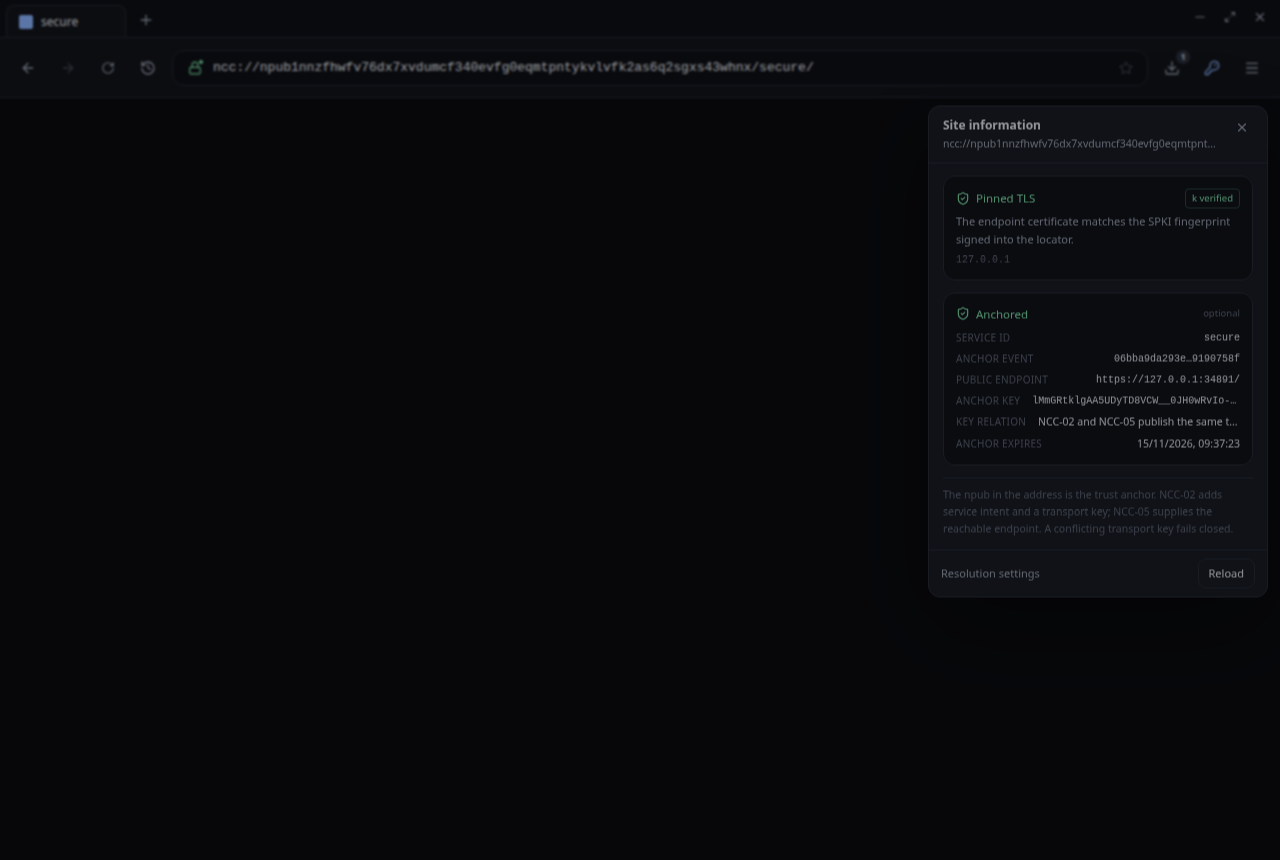
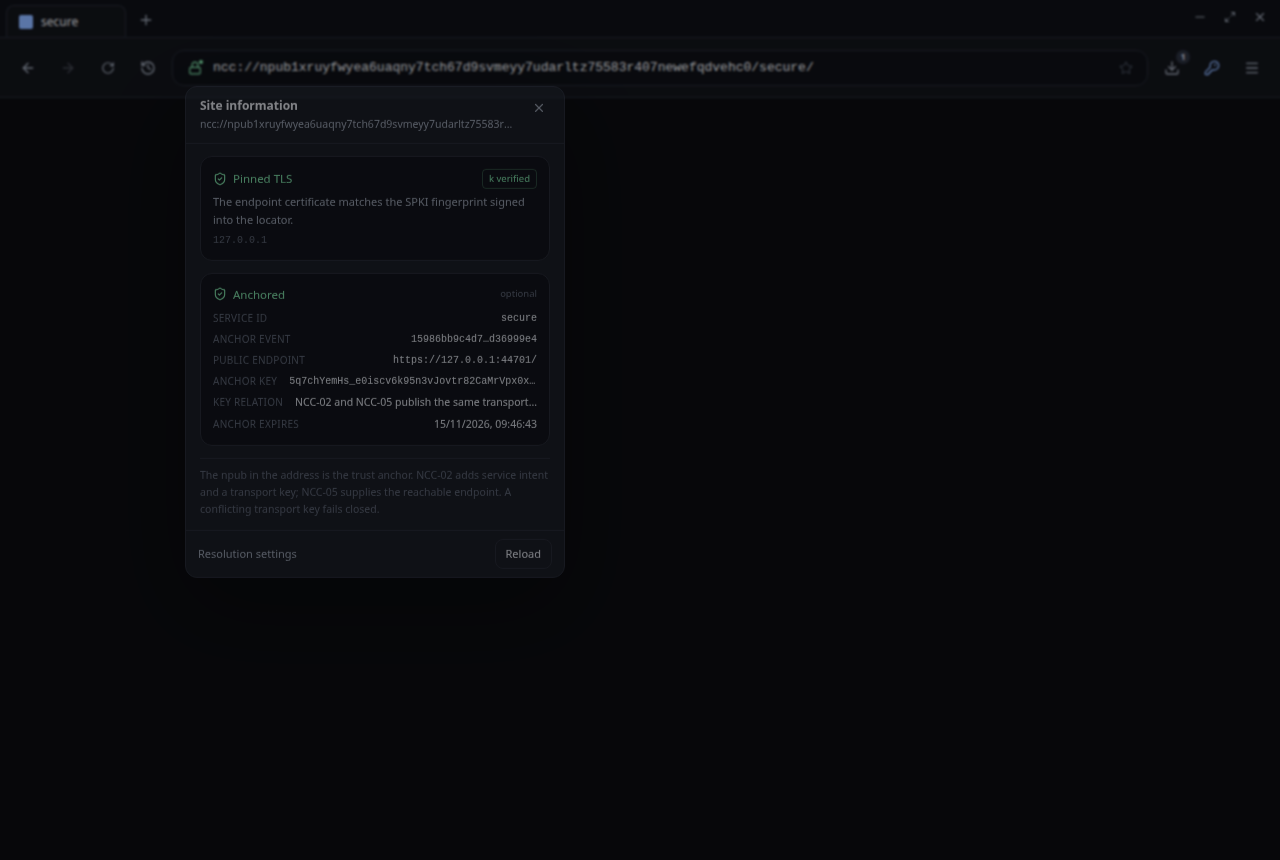
Anchor the Site information panel to the address-bar padlock
- measure the padlock on click and open the popover directly underneath it
- clamp the panel to the viewport on narrow windows
- add an e2e assertion for the panel position
- refresh screenshots

Tests: 229 unit, 104 e2e.

diff --git a/src/renderer/src/components/Popover.tsx b/src/renderer/src/components/Popover.tsx
@@ -8,10 +8,19 @@ interface PopoverProps {
   /** Tailwind top offset, below the tab strip or the toolbar. */
   topClass?: string
   widthClass?: string
+  /** Pixel width used when anchored. */
+  widthPx?: number
+  /** Viewport position from an anchor element; opens directly under it. */
+  anchor?: PopoverAnchor | null
   testId: string
   onClose: () => void
   footer?: ReactNode
   children: ReactNode
+}
+
+export interface PopoverAnchor {
+  top: number
+  left: number
 }
 
 /**
@@ -23,6 +32,8 @@ export function Popover({
   subtitle,
   topClass = 'top-[104px]',
   widthClass = 'w-[340px]',
+  widthPx = 340,
+  anchor,
   testId,
   onClose,
   footer,
@@ -42,6 +53,11 @@ export function Popover({
     return () => window.removeEventListener('keydown', onKeyDown)
   }, [onClose])
 
+  const anchored = Boolean(anchor)
+  const left = anchor
+    ? Math.min(Math.max(8, anchor.left), Math.max(8, window.innerWidth - widthPx - 8))
+    : 0
+
   return (
     <div
       className="fixed inset-0 z-[90] bg-black/35 backdrop-blur-[1px]"
@@ -53,7 +69,10 @@ export function Popover({
         aria-modal="true"
         aria-label={title}
         data-popover={testId}
-        className={`ncc-fade-in absolute right-3 ${topClass} ${widthClass} overflow-hidden rounded-xl border border-[color:var(--color-line)] bg-[color:var(--color-panel-raised)] shadow-[0_30px_90px_rgba(0,0,0,0.6)]`}
+        className={`ncc-fade-in absolute overflow-hidden rounded-xl border border-[color:var(--color-line)] bg-[color:var(--color-panel-raised)] shadow-[0_30px_90px_rgba(0,0,0,0.6)] ${
+          anchored ? '' : `right-3 ${topClass} ${widthClass}`
+        }`}
+        style={anchor ? { top: Math.round(anchor.top + 6), left, width: widthPx } : undefined}
         onMouseDown={(event) => event.stopPropagation()}
       >
         <div className="flex items-start justify-between gap-3 border-b border-[color:var(--color-line)] px-3.5 py-2.5">

diff --git a/src/renderer/src/App.tsx b/src/renderer/src/App.tsx
@@ -13,6 +13,7 @@ import type {
 import { ChromeMenu } from './components/ChromeMenu'
 import { DownloadsPanel } from './components/DownloadsPanel'
 import { HistoryPanel } from './components/HistoryPanel'
+import { type PopoverAnchor } from './components/Popover'
 import { SettingsPage, type SettingsSection } from './components/SettingsPage'
 import { SignerPrompt } from './components/SignerPrompt'
 import { SiteInfoPanel } from './components/SiteInfoPanel'
@@ -47,6 +48,7 @@ export function App() {
   const [signerRequest, setSignerRequest] = useState<SignerRequest | null>(null)
   const [history, setHistory] = useState<TabHistory | null>(null)
   const [settingsSection, setSettingsSection] = useState<SettingsSection>('general')
+  const [siteInfoAnchor, setSiteInfoAnchor] = useState<PopoverAnchor | null>(null)
 
   /**
    * One overlay at a time. The shell hides every content view while an overlay is
@@ -329,7 +331,10 @@ export function App() {
         onOpenDownloads={() => showOverlay('downloads')}
         onOpenHistory={openHistory}
         onHistoryMenu={(direction) => void window.ncc.showHistoryMenu(direction)}
-        onOpenSiteInfo={() => showOverlay('site-info')}
+        onOpenSiteInfo={(anchor) => {
+          setSiteInfoAnchor(anchor)
+          showOverlay('site-info')
+        }}
         onOpenSettings={() => openSettings('identity')}
         onOpenMenu={() => showOverlay('menu')}
       />
@@ -381,6 +386,7 @@ export function App() {
       {overlay === 'site-info' ? (
         <SiteInfoPanel
           state={state}
+          anchorRect={siteInfoAnchor}
           onClose={closeOverlay}
           onOpenSettings={() => openSettings('general')}
           onReload={() => {

diff --git a/src/renderer/src/components/AddressBar.tsx b/src/renderer/src/components/AddressBar.tsx
@@ -1,6 +1,7 @@
 import { useEffect, useRef, useState } from 'react'
 import { Lock, Star } from 'lucide-react'
 import type { SecuritySummary } from '../lib/security'
+import type { PopoverAnchor } from './Popover'
 import { cn } from '../lib/cn'
 
 interface AddressBarProps {
@@ -10,7 +11,7 @@ interface AddressBarProps {
   bookmarked: boolean
   security: SecuritySummary
   onToggleBookmark: () => void
-  onOpenSiteInfo: () => void
+  onOpenSiteInfo: (anchor: PopoverAnchor) => void
   onNavigate: (input: string) => void
   onFocusChange?: (focused: boolean) => void
 }
@@ -67,7 +68,10 @@ export function AddressBar({
           aria-label={`Site security (${security.label})`}
           title={security.tooltip}
           disabled={!security.clickable}
-          onClick={onOpenSiteInfo}
+          onClick={(event) => {
+            const rect = event.currentTarget.getBoundingClientRect()
+            onOpenSiteInfo({ top: rect.bottom, left: rect.left })
+          }}
           className={cn(
             'relative inline-flex h-5 w-5 shrink-0 items-center justify-center rounded transition-colors hover:bg-white/10 disabled:cursor-default disabled:hover:bg-transparent',
             lockTone(security.tone)

diff --git a/src/renderer/src/components/SiteInfoPanel.tsx b/src/renderer/src/components/SiteInfoPanel.tsx
@@ -12,10 +12,11 @@ import { ERROR_COPY } from '@shared/types'
 import type { AnchorInfo, NavState, TransportSecurity } from '@shared/types'
 import { clearnetState } from '../lib/clearnet'
 import { cn } from '../lib/cn'
-import { Popover } from './Popover'
+import { Popover, type PopoverAnchor } from './Popover'
 
 interface SiteInfoPanelProps {
   state: NavState
+  anchorRect: PopoverAnchor | null
   onClose: () => void
   onOpenSettings: () => void
   onReload: () => void
@@ -23,6 +24,7 @@ interface SiteInfoPanelProps {
 
 export function SiteInfoPanel({
   state,
+  anchorRect,
   onClose,
   onOpenSettings,
   onReload
@@ -37,6 +39,8 @@ export function SiteInfoPanel({
       title="Site information"
       subtitle={state.displayUrl || 'NCC page'}
       testId="site-info"
+      anchor={anchorRect}
+      widthPx={380}
       onClose={onClose}
       footer={
         <div className="flex items-center justify-between gap-2">

diff --git a/src/renderer/src/components/Toolbar.tsx b/src/renderer/src/components/Toolbar.tsx
@@ -12,6 +12,7 @@ import {
 import type { DownloadNotice, IdentityStatus, NavState } from '@shared/types'
 import { isActiveDownload } from '@shared/downloads'
 import { AddressBar } from './AddressBar'
+import type { PopoverAnchor } from './Popover'
 import { securitySummary } from '../lib/security'
 import { cn } from '../lib/cn'
 
@@ -31,7 +32,7 @@ interface ToolbarProps {
   onOpenDownloads: () => void
   onOpenHistory: () => void
   onHistoryMenu: (direction: 'back' | 'forward') => void
-  onOpenSiteInfo: () => void
+  onOpenSiteInfo: (anchor: PopoverAnchor) => void
   onOpenSettings: () => void
   onOpenMenu: () => void
 }
